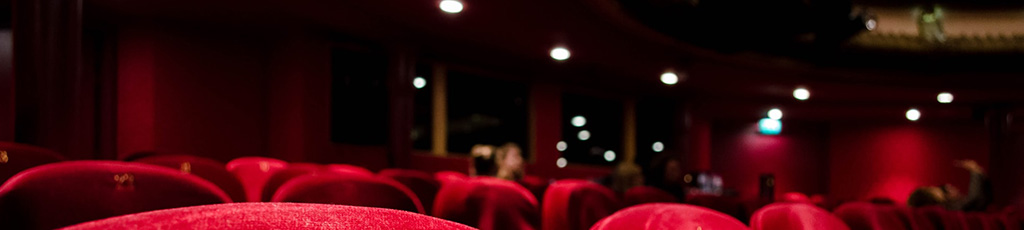
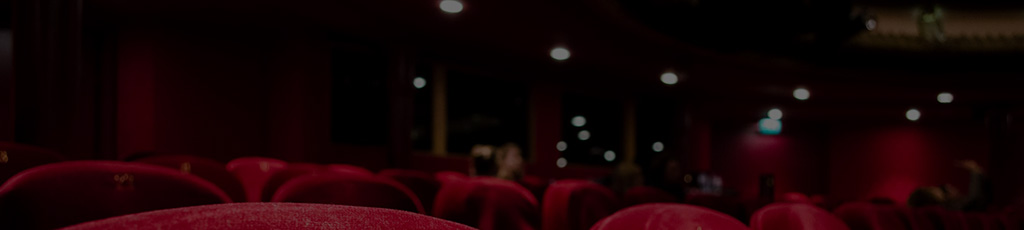
layout-header-footer

diff --git a/src/components/Header/header.js b/src/components/Header/header.js
@@ -1,0 +1,55 @@
+// импорт кнопок для библиотеки
+// импорт функции отрисовки списка "очередь" (а может и не нужно здесь это)
+
+const refs = {
+  logo: document.querySelector('.js-logo'),
+  home: document.querySelector('.js-home'),
+  library: document.querySelector('.js-library'),
+  input: document.querySelector('.header-input'),
+  inputValue: document.querySelector('#search'),
+  headerWrapper: document.querySelector('.header-wrapper'),
+  warning: document.querySelector('.header-warning'),
+};
+
+console.log(refs.inputValue.value);
+
+document.addEventListener('DOMContentLoaded', homeHoverActive);
+refs.library.addEventListener('click', showLibrary);
+refs.home.addEventListener('click', showHomePage);
+
+function homeHoverActive() {
+  refs.home.classList.add('hover');
+}
+
+function showLibrary() {
+  refs.home.classList.remove('hover');
+  refs.library.classList.add('hover');
+
+  refs.input.style.display = 'none';
+  refs.warning.style.display = 'none';
+
+  refs.headerWrapper.classList.add('header-library-img');
+  // дописать код, который вставляет кнопки
+
+  // дописать код, который вызывает функцию отрисовывки массива обьектов из списка "очередь"
+}
+
+function showHomePage() {
+  refs.library.classList.remove('hover');
+  refs.home.classList.add('hover');
+
+  refs.input.style.display = 'block';
+  refs.warning.style.display = 'none';
+  refs.inputValue.value = '';
+
+  refs.headerWrapper.classList.remove('header-library-img');
+}
+
+// Функция для Ярослава
+function showDetailPage() {
+  refs.home.classList.remove('hover');
+  refs.library.classList.remove('hover');
+
+  refs.input.style.display = 'none';
+  refs.headerWrapper.classList.add('header-detail-img');
+}

diff --git a/src/index.html b/src/index.html
@@ -12,7 +12,7 @@
       <div class="container header">
         <div class="header-first-line">
           <div class="header-logo">
-            <a href="#" class="header-logo-link">
+            <a href="#" class="header-logo-link js-logo">
               <svg class="header-logo-icon icon-film">
                 <use href="images/icons/symbol-defs.svg#film"></use>
               </svg>
@@ -21,9 +21,11 @@
           </div>
           <nav class="header-nav">
             <ul class="header-nav-list">
-              <li class="nav-item"><a class="nav-link" href="#">Home</a></li>
               <li class="nav-item">
-                <a class="nav-link" href="#">My library</a>
+                <a class="nav-link js-home" href="#">Home</a>
+              </li>
+              <li class="nav-item">
+                <a class="nav-link js-library" href="#">My library</a>
               </li>
             </ul>
           </nav>
@@ -50,6 +52,7 @@
         </div>
       </div>
     </header>
+
     <main>
       <div>
         <!-- Здесь динамическая разметка карточек с фильмами  -->

diff --git a/src/components/Header/header.css b/src/components/Header/header.css
@@ -1,15 +1,21 @@
 .header-wrapper {
   /* картинка не подтягивалась с папки image */
+  /* background-image: url(//src/images/img.jpg); */
+
   background-image: url(./img-2.jpg);
   background-repeat: no-repeat;
   background-size: cover;
   background-position-x: 20%;
-  /* background-color: rgb(0, 0, 0); */
-  /* opacity: 0.561; */
+  background-color: rgba(0, 0, 0, 0.561);
   min-height: 230px;
 }
 
-.header {
+.header-wrapper.header-library-img {
+  background-image: url(./img-1.jpg);
+}
+
+.header-wrapper.header-detail-img {
+  background-image: url(./img.jpg);
 }
 
 .header-first-line {
@@ -21,6 +27,9 @@
 
 .header-logo-link {
   text-decoration: none;
+  /* line-height: 45px; */
+  padding-top: 13px;
+  padding-bottom: 10px;
 }
 
 .icon-film {
@@ -61,7 +70,8 @@
   margin: 0 20px;
 }
 
-.nav-link:hover:focus {
+.nav-link:hover:focus,
+.nav-link.hover {
   border-bottom: 2px solid rgb(255, 107, 8);
 }
 

diff --git a/src/index.js b/src/index.js
@@ -1,6 +1,6 @@
 import './styles.css';
 import './components/Footer/footer';
-// import './components/Footer/footer.js';
+import './components/Header/header';
 
 // inputValue - имя переменной для значия input в форме поиска(в хедере)
 // watched, queue - названия ключей для записи(и чтения) данных с localStorage
